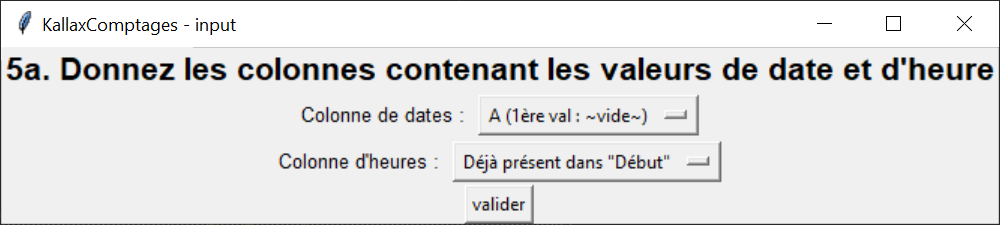
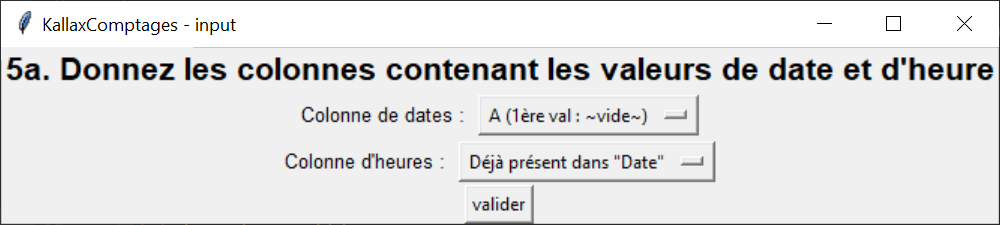
Improved readme, corrected word in input step 5

diff --git a/dev/input.py b/dev/input.py
@@ -357,7 +357,7 @@ def pack_part5(frame4):
 
     if data_types[1]:
         columns = generateColumnsMenu(1)
-        columns_with_other = [main.optionmenu_with_other_begin] + columns
+        columns_with_date = [main.optionmenu_with_other_date] + columns
 
         label5a = tk.Label(frame5, text="5a. Donnez les colonnes contenant les valeurs de date et d'heure",
                            font='Helvetica 16 bold')
@@ -369,8 +369,8 @@ def pack_part5(frame4):
         frame5a_2 = tk.Frame(frame5)
         label5a_2 = tk.Label(frame5a_2, text="Colonne d'heures : ", font='Helvetica 10')
         entry5a_2_var = tk.StringVar()
-        entry5a_2_var.set(columns_with_other[0])
-        entry5a_2 = tk.OptionMenu(frame5a_2, entry5a_2_var, *columns_with_other)
+        entry5a_2_var.set(columns_with_date[0])
+        entry5a_2 = tk.OptionMenu(frame5a_2, entry5a_2_var, *columns_with_date)
 
     if data_types[2]:
         columns = generateColumnsMenu(2)

diff --git a/README.MD b/README.MD
@@ -30,24 +30,24 @@ Son concept est le suivant :
 
 ## Installation et utilisation
 
-KallaxComptages ne nécessite pas vraiment d'installation. Il suffit de copier le dossier **XXX** sur votre machine, puis de lancer l'exécutable (.exe).
+KallaxComptages ne nécessite pas vraiment d'installation. Il suffit de copier le dossier "out" sur votre machine, puis de lancer l'exécutable (.exe).
 
 Une fois l'exécutable lancé, la fenêtre suivante apparait :
 **SCREENSHOT**
 
 ### Ajout de données
 
-#### Partie 1 : Choix du fichier
+#### Étape 1 : Choix du fichier
 ![step 1](thesis/img/1.PNG)
 <br>La première étape consiste à choisir le fichier contenant les informations à introduire dans la base de données.
 <br>Le fichier peut être au format .xlsx ou .csv.
 
-#### Partie 2 : Choix de la feuille à utiliser
+#### Étape 2 : Choix de la feuille à utiliser
 ![step 2](thesis/img/2.PNG)
-<br>Si le fichier choisi est au format .xlsx, cette étape consiste à choisir la feuille à utiliser.
+<br>Si le fichier choisi est au format .xlsx, cette étape consiste à choisir la feuille à utiliser parmi celles contenues dans le fichier.
 <br>Si le fichier est au format .csv, le programme détermine automatiquement le séparateur des colonnes et passe à l'étape suivante sans intervention de l'utilisateur.trice.
 
-#### Partie 3 : Choix du type de données présentes
+#### Étape 3 : Choix du type de données présentes
 ![step 3](thesis/img/3.PNG)
 <br>Cette étape consiste à spécifier le type de données présent dans le fichier. Il y a 3 types de données possibles :
 - Données brutes : chaque passage de véhicule est enregistré sur sa propre ligne.
@@ -56,28 +56,36 @@ Une fois l'exécutable lancé, la fenêtre suivante apparait :
 
 Si des données brutes sont disponibles, le programme n'a pas besoin de données agrégées, d'où la sélection unique dans le menu. Autrement, il faut spécifier si les données à disposition sont agrégées par temps, par heure, ou si les deux types sont présents.
 
-#### Partie 4 : Choix des lignes à utiliser
+#### Étape 4 : Choix des lignes à utiliser
 ![step 4](thesis/img/4.PNG)
 <br>Cette étape consiste à spécifier les numéros de ligne du fichier à utiliser. Elle permet d'éviter de prendre en compte les éventuels en-têtes et lignes superflues contenues dans le fichier.
 <br>Par défaut, les lignes non-vides du fichier sont prises en compte.
 <br>Le contenu de la fenêtre varie en fonction des types de données spécifiées à l'étape 3.
 
-#### Partie 5 : Choix des colonnes de temps et/ou de vitesse
+#### Étape 5 : Choix des colonnes de temps et/ou de vitesse
 ![step 5](thesis/img/5.PNG)
 <br>Cette étape consiste à spécifier les numéros/lettres des colonnes contenant l'information des tranches de temps et/ou de vitesse (en fonction du type de données agrégées sélectionnées).
 <br>Elle est automatiquement passée si le type de données a été défini sur "brutes" à l'étape 3.
+<br>La première valeur de chaque colonne (déterminée à partir de la première ligne indiquée à l'étape 4) est aussi affichée, dans le but de faciliter la sélection de la bonne colonne.
+<br>Si la cellule à cet endroit est vide, "~vide~" sera affiché.
+<br>Si la date et l'heure sont affichées dans la même colonne, il est possible de sélectionner "Déjà présent dans "Date"" pour la colonne d'heure.
+<br>Il en va de même pour le début et la fin de la tranche de vitesse pour les données agrégées par vitesse.
 
-#### Partie 6 : Choix des colonnes à utiliser
+#### Étape 6 : Choix des colonnes à utiliser
 ![step 6](thesis/img/6.PNG)
 <br>Cette étape consiste à spécifier les numéros/lettres des colonnes contenant les informations présentes dans le fichier.
 <br>Le contenu de la fenêtre varie en fonction des types de données spécifiées à l'étape 3.
 <br>Si des données agrégées par tranches de vitesse sont présentes, il est également demandé d'entrer le jour où le comptage a été effectué.
+<br>La première valeur de chaque colonne est affichée de la même manière qu'à l'étape 5.
+<br>Il est possible de spécifier lorsque des données sont déjà présentes dans d'autres colonnes (par exemple l'heure et la date), ainsi que lorsque des données ne sont pas présentes.
+<br>Il n'est pas possible de définir certaines données comme absentes, comme le nombre de passages de véhicules par exemple.
 
-#### Partie 7 : Choix de la localisation du comptage routier
+#### Étape 7 : Choix de la localisation du comptage routier
 ![step 7](thesis/img/7.PNG)
 <br>Cette étape consiste à préciser la localisation exacte du comptage routier, sous forme de pointeur sur une carte.
+<br>Le pointeur est ensuite automatiquement converti en coordonnées géographiques au moment de l'enregistrement dans la base de données.
 
-#### Partie 8 : Récapitulatif des données à entrer
+#### Étape 8 : Récapitulatif des données à entrer
 ![step 8](thesis/img/8.PNG)
 <br>Cette étape consiste simplement à vérifier si les informations entrées précédemment sont correctes. Pour ce faire, le programme génère un récapitulatif contenant tout ce qui a été spécifié aux étapes précédentes.
 
@@ -85,6 +93,6 @@ Une fois l'étape 8 validée, les données sont envoyées dans la base de donné
 <br>Il est recommandé de ne pas fermer le programme tant que la fenêtre "Données envoyées à la base de données !" n'est pas apparu.
 
 ### Analyse de données
-À écrire quand le programme le permettra..
+À écrire quand le programme le permettra...
 
 ## Contribuer au développement
